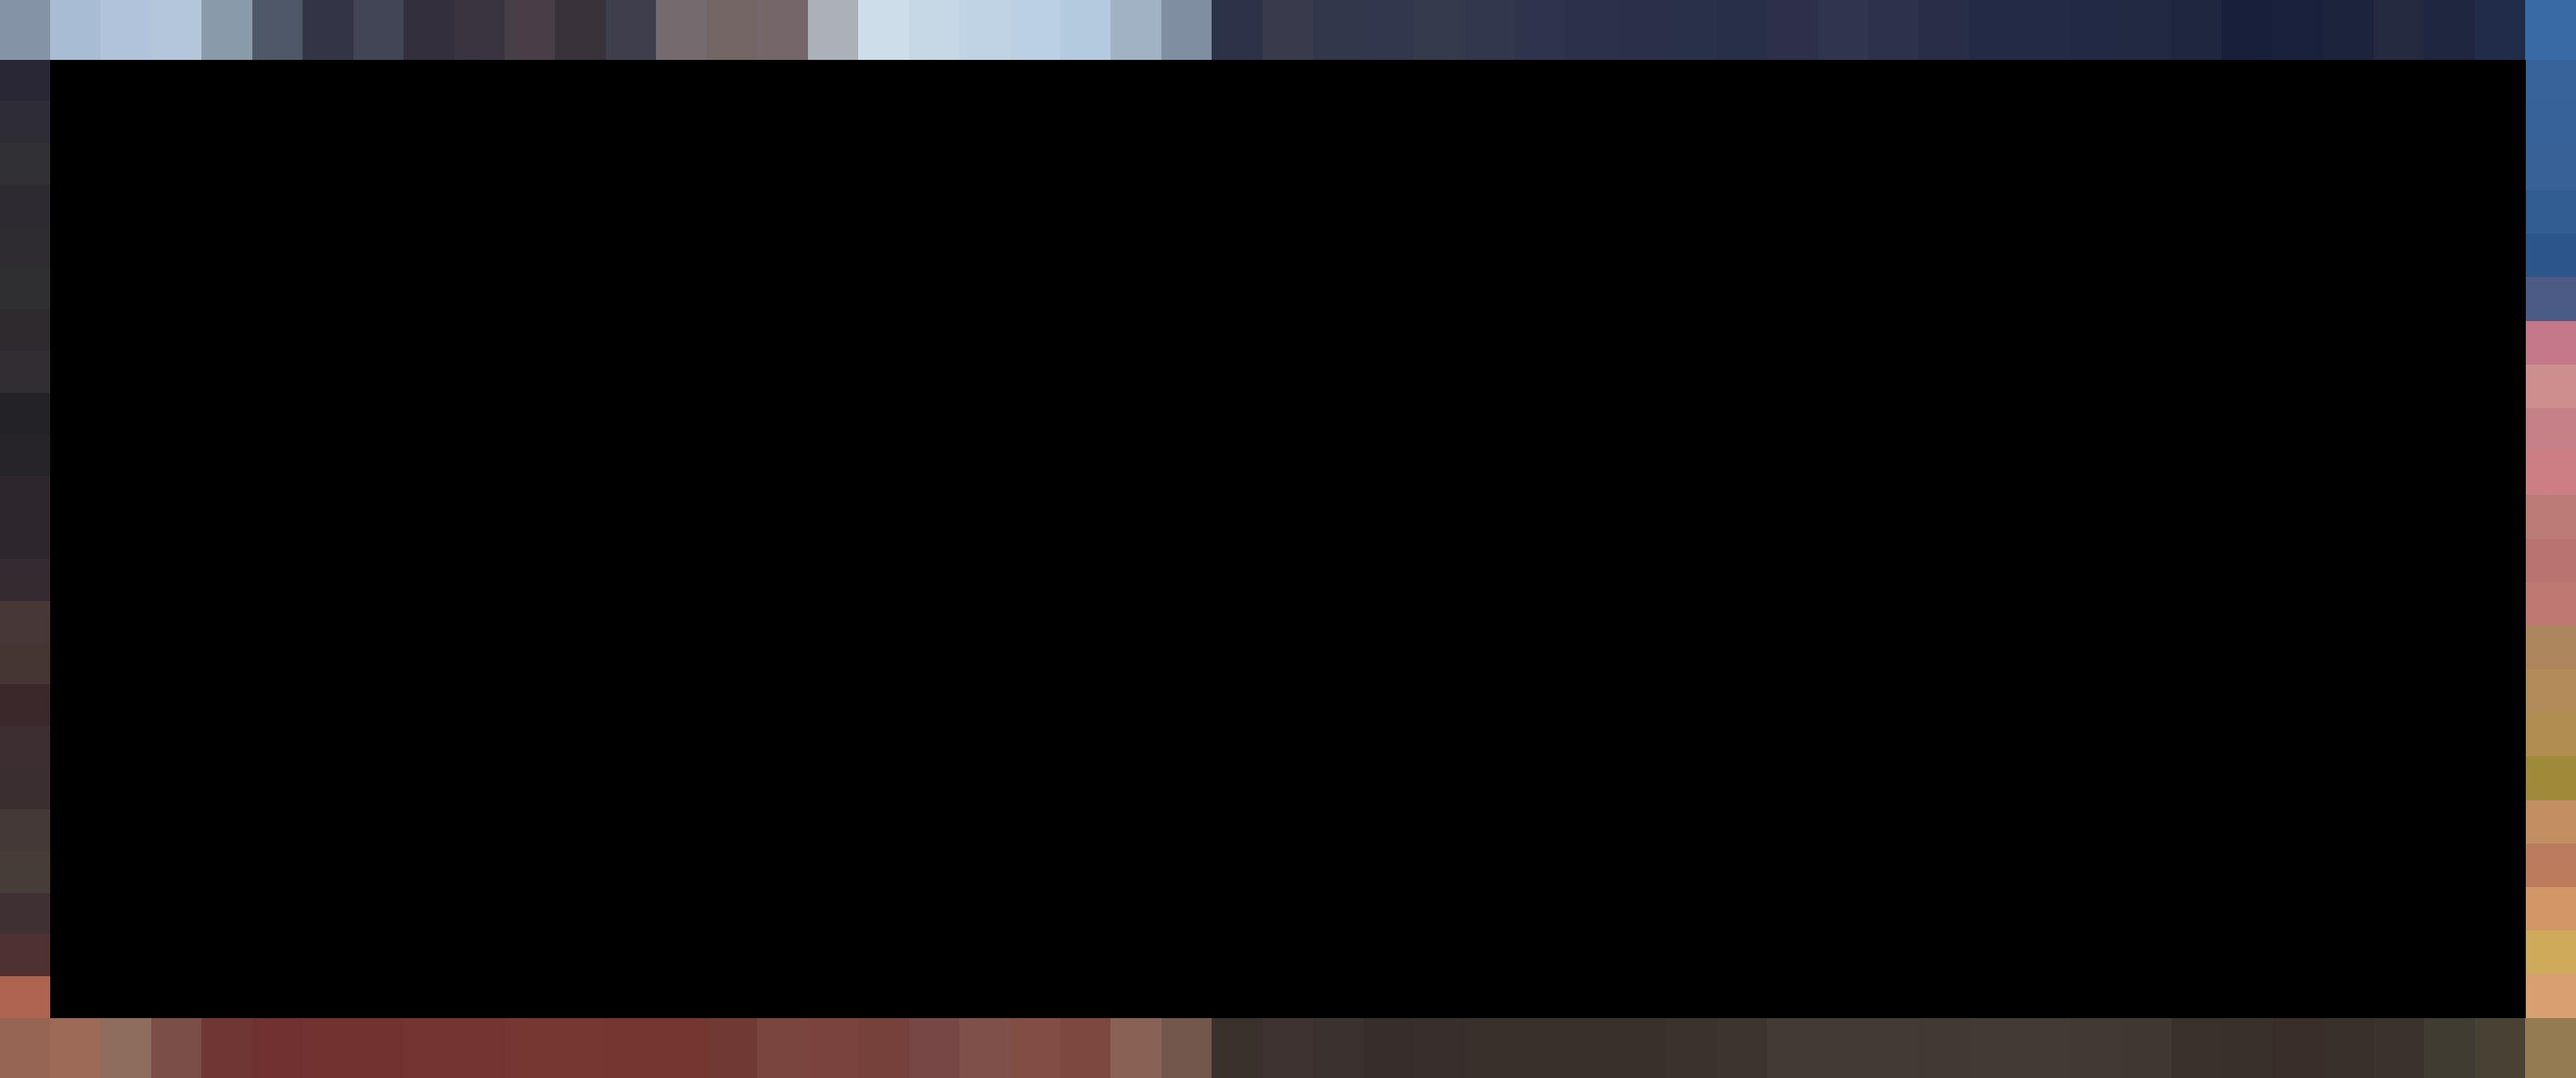
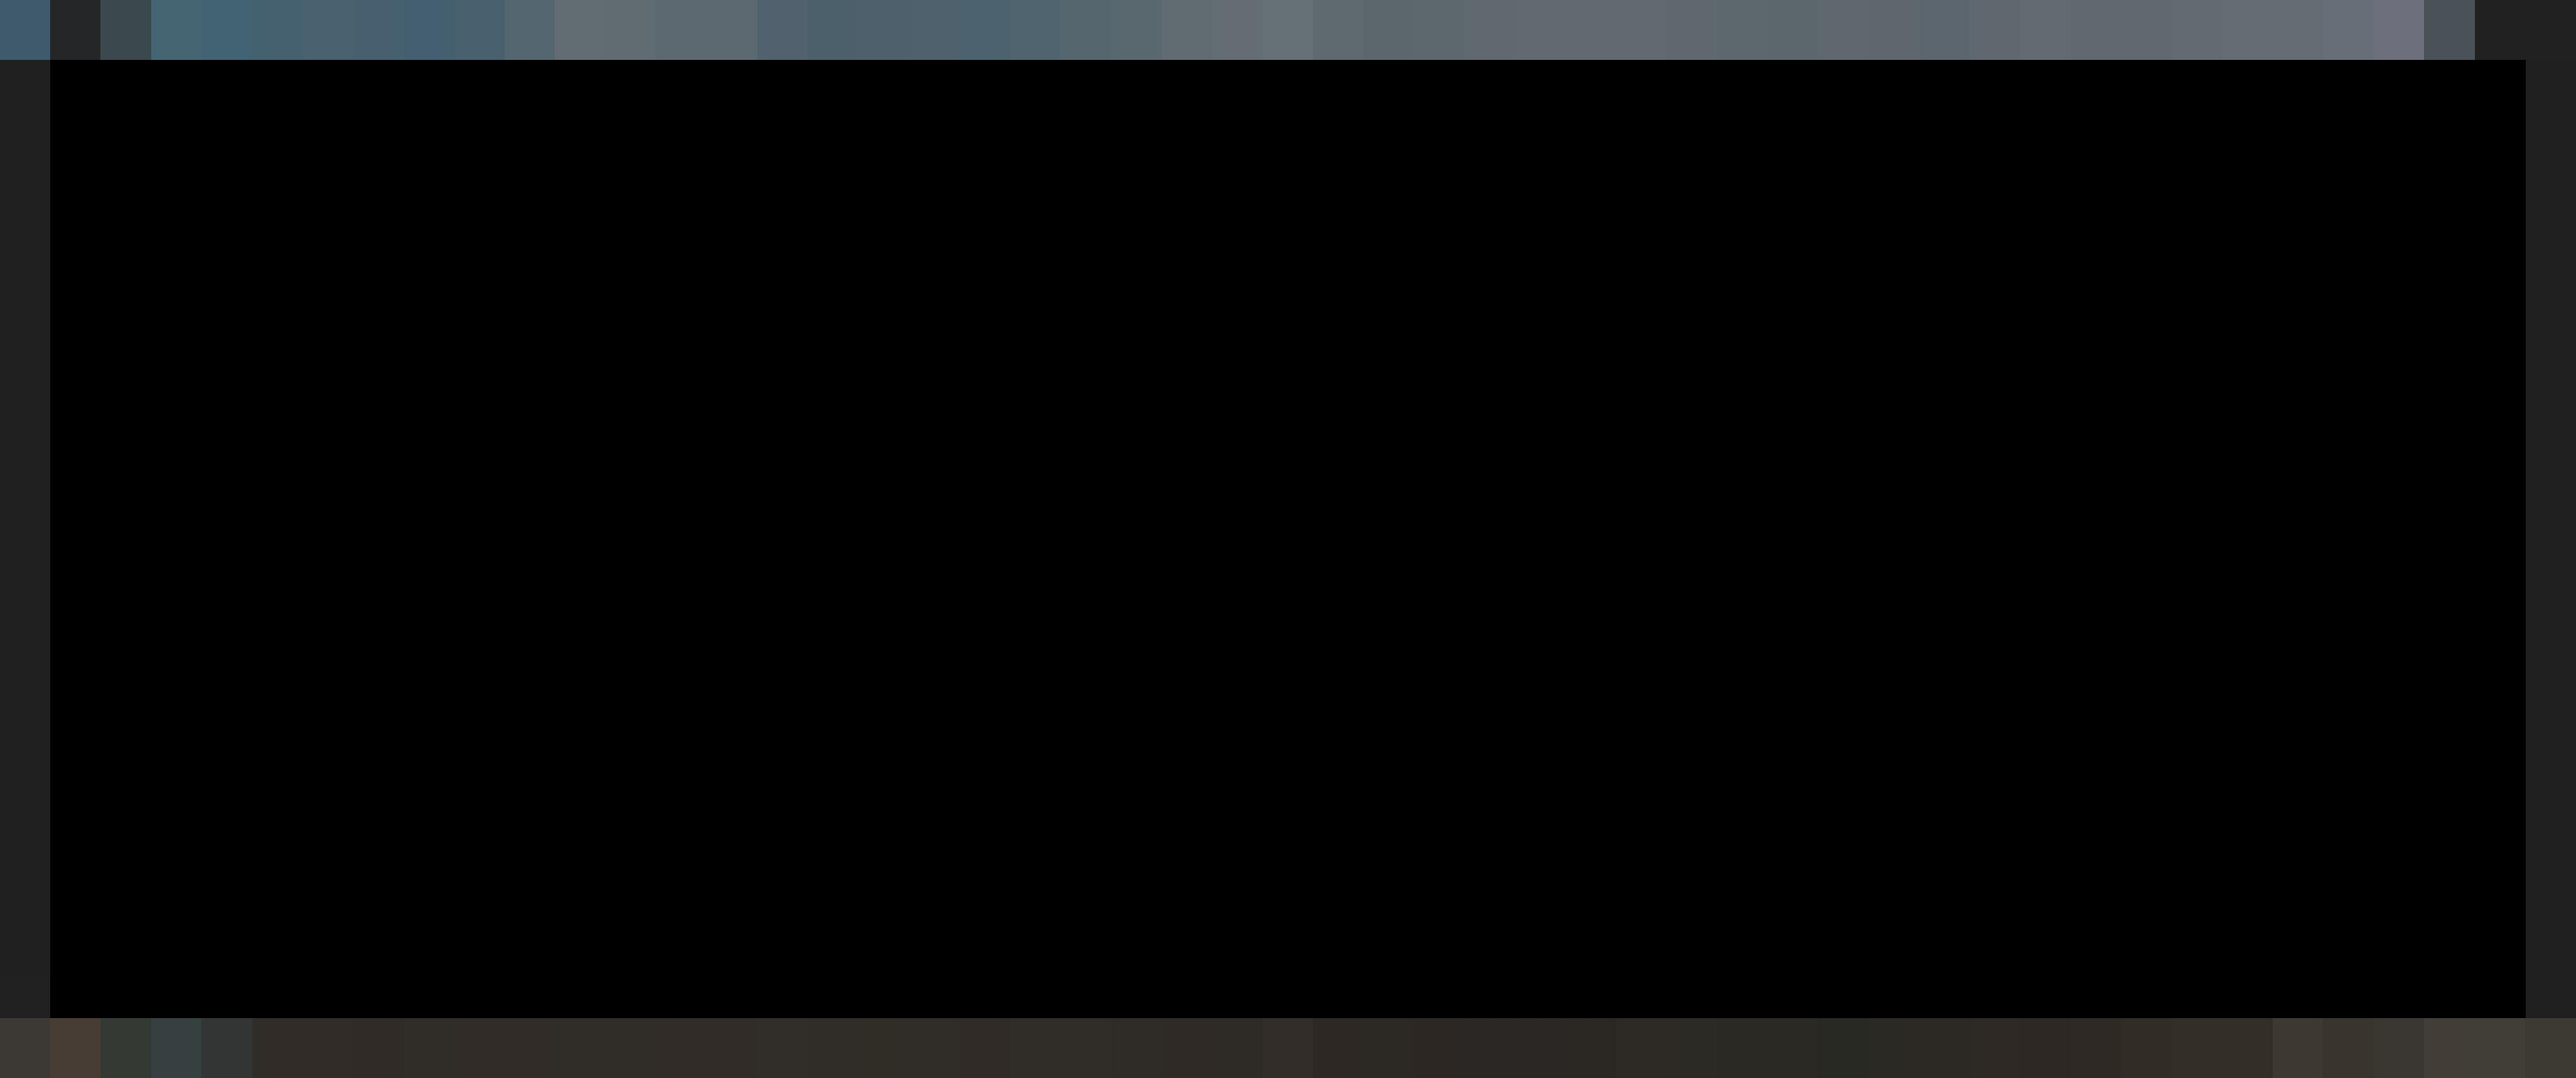
Added fade in, with startup

Changed region(s): [[0.0, 0.0, 1.0, 1.0], [0.0, 0.5312, 0.4977, 1.0], [0.6843, 0.9375, 0.7465, 1.0]]

diff --git a/Python/src/main.py b/Python/src/main.py
@@ -37,25 +37,25 @@ START_BYTE = 255         # simple start-of-frame marker
 
 
 # ========= COLOR / SMOOTHING TUNING =========
-BRIGHTNESS       = 0.9    # overall brightness scale (0.0–1.0)
-SATURATION_BOOST = 1.6    # >1.0 = more saturated colors
+BRIGHTNESS       = 1.5    # overall brightness scale (0.0–1.0)
+SATURATION_BOOST = 2.0     # >1.0 = more saturated colors
 MIN_VISIBLE      = 10     # below this (0–255) → treat as black/off
 
-SMOOTHING_ALPHA  = 0.6    # temporal smoothing (0..1): higher = smoother/slower
-GAMMA            = 2.0    # gamma correction on brightness
+SMOOTHING_ALPHA  = 0.9    # temporal smoothing (0..1): higher = smoother/slower
+GAMMA            = 1.0    # gamma correction on brightness
 
 # Warm / cool tint:
 #   0.0 = neutral
 #   +0.5 = warmer (more red, less blue)
 #   -0.5 = cooler (more blue, less red)
-WARM_COOL        = 0.0
+WARM_COOL        = 0.5
 # ===========================================
 
 
 # ========= PILLARBOX / YOUTUBE MODE =========
 # When True, we assume 16:9 content centered on a wider screen (e.g. 21:9),
 # and ignore the side black bars by sampling only inside the active 16:9 area.
-PILLARBOX_MODE = True
+PILLARBOX_MODE = False
 # ===========================================
 
 
